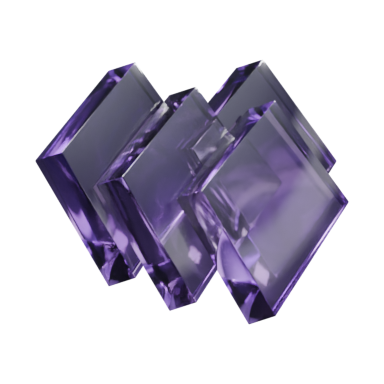
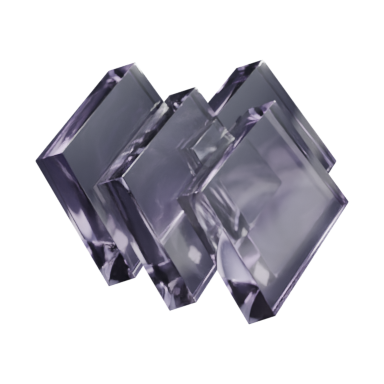
Brighten the gems, and size them like the bolt on the chip
The gems averaged 0x5b567c against the bolts' 0x89b6d5 and read as dark
lumps on the board's glass. Absorption density 9 was eating nearly all
the light crossing a slab this thick; at 2.2 the stone keeps the
thick-is-deeper gradient that makes it a gem instead of going black
through the middle.

Worth recording what is NOT the lever: `gemstone`'s tint_strength. The
surface is deliberately whitened by `absorbing`, which moves all the
colour into the volume, so anything set there is overwritten. Density is
the only control on this material's value.

On the chip the gem is drawn at the bolt's 17px rather than the coin's
15. A rhombus seen corner to corner carries far less area than a disc of
the same height, which is why the energy chip has always used 17.

Also fixes a slip from the credit-mark change: the chip tested
`currency-credit` to decide whether it had a render, while credits now
resolve to `credit-mark`. Rendered keys are the ones prefixed `item-`.

diff --git a/src/game/scenes/board/hudChrome.ts b/src/game/scenes/board/hudChrome.ts
@@ -123,17 +123,23 @@ scene: BoardScene,
   // by `currencyTexture` so the chip cannot end up on different art from the
   // board, the prices or the order cards.
   const kind: CurrencyKind = glyph === 'coin' ? 'credit' : 'gem';
-  const rendered = loadedItemSprite(scene, `currency-${kind}`, 1);
+  // The rendered item when it is loaded, the flat SVG otherwise - resolved
+  // by `currencyTexture` so the chip cannot end up on different art from the
+  // board, the prices or the order cards. Rendered keys are the only ones
+  // prefixed `item-`; asking for `currency-credit` here was wrong now that
+  // credits resolve to `credit-mark`.
   const iconKey = currencyTexture(scene, kind);
-  // `currencyBoxFor` for BOTH, not a hand-picked size for the render. The
-  // rendered marks fill less of their canvas than the SVGs did, so a size
-  // guessed here came out visibly smaller than the art it replaced; the
-  // correction belongs with the ratios in CurrencyGlyph, where every other
-  // surface picks it up too.
-  // 24px of drawn mark, against the bolt's 26 - see GLYPH_FILL_RATIO for
-  // why that is not the same as a 24px display size. The render fills almost
-  // its whole box, so it needs no such correction.
-  const iconSize = currencyDisplaySize(scene, kind, currencyBoxFor(kind, 15 * s));
+  const rendered = iconKey.startsWith('item-');
+  // The gem is drawn at the BOLT's height, not the coin's. A rhombus seen
+  // corner to corner carries far less area than a disc of the same height,
+  // so at 15 it sat visibly smaller than the other two marks on the same
+  // bar; the energy chip has always used 17 for the same reason.
+  //
+  // Both go through `currencyBoxFor` and `currencyDisplaySize` rather than a
+  // hand-picked pixel size: the first corrects for how much of its box each
+  // SVG's art fills, the second for how much of its canvas a render fills.
+  const drawnHeight = (kind === 'gem' ? 17 : 15) * s;
+  const iconSize = currencyDisplaySize(scene, kind, currencyBoxFor(kind, drawnHeight));
   const iconShadow = scene.add.image(0, 0, iconKey).setDisplaySize(iconSize, iconSize).setTintFill(0x000000).setAlpha(0.28).setDepth(21);
   const icon = scene.add.image(0, 0, iconKey).setDisplaySize(iconSize, iconSize).setDepth(22);
   // No gloss pass over a render: it is already lit, and a white wash across

diff --git a/tools/blender/render_items.py b/tools/blender/render_items.py
@@ -1625,8 +1625,18 @@ def dress_currency(kind: str, out):
             shader.inputs["Coat Roughness"].default_value = 0.05
             shader.inputs["Coat IOR"].default_value = 1.5
         else:
+            # tint_strength stays 0: `absorbing` below whitens the surface
+            # on purpose and moves all the colour into the volume, so any
+            # tint set here is overwritten. Density is the only lever on this
+            # stone's value.
             gemstone(material, ior=1.75, roughness=0.06, tint_strength=0.0)
-            absorbing(material, CURRENCY_RGB[kind][tier], density=9.0)
+            # DENSITY 2.2, down from 9.0. Absorption is how much colour the
+            # light loses crossing the stone, so on a slab this thick 9 was
+            # eating nearly all of it - the gems averaged 0x5b567c against
+            # the bolts' 0x89b6d5 and read as dark lumps on the board's
+            # glass. Lower density keeps the thick-is-deeper gradient that
+            # makes it a gem and stops it going black in the middle.
+            absorbing(material, CURRENCY_RGB[kind][tier], density=2.2)
         # A REAL CHAMFER on the credit pieces. The drawn coin has a stroked
         # outline inside its edge, and on a solid that is a chamfered rim -
         # at 0.010 on a 0.042-thick coin it was a hairline and the edge read
